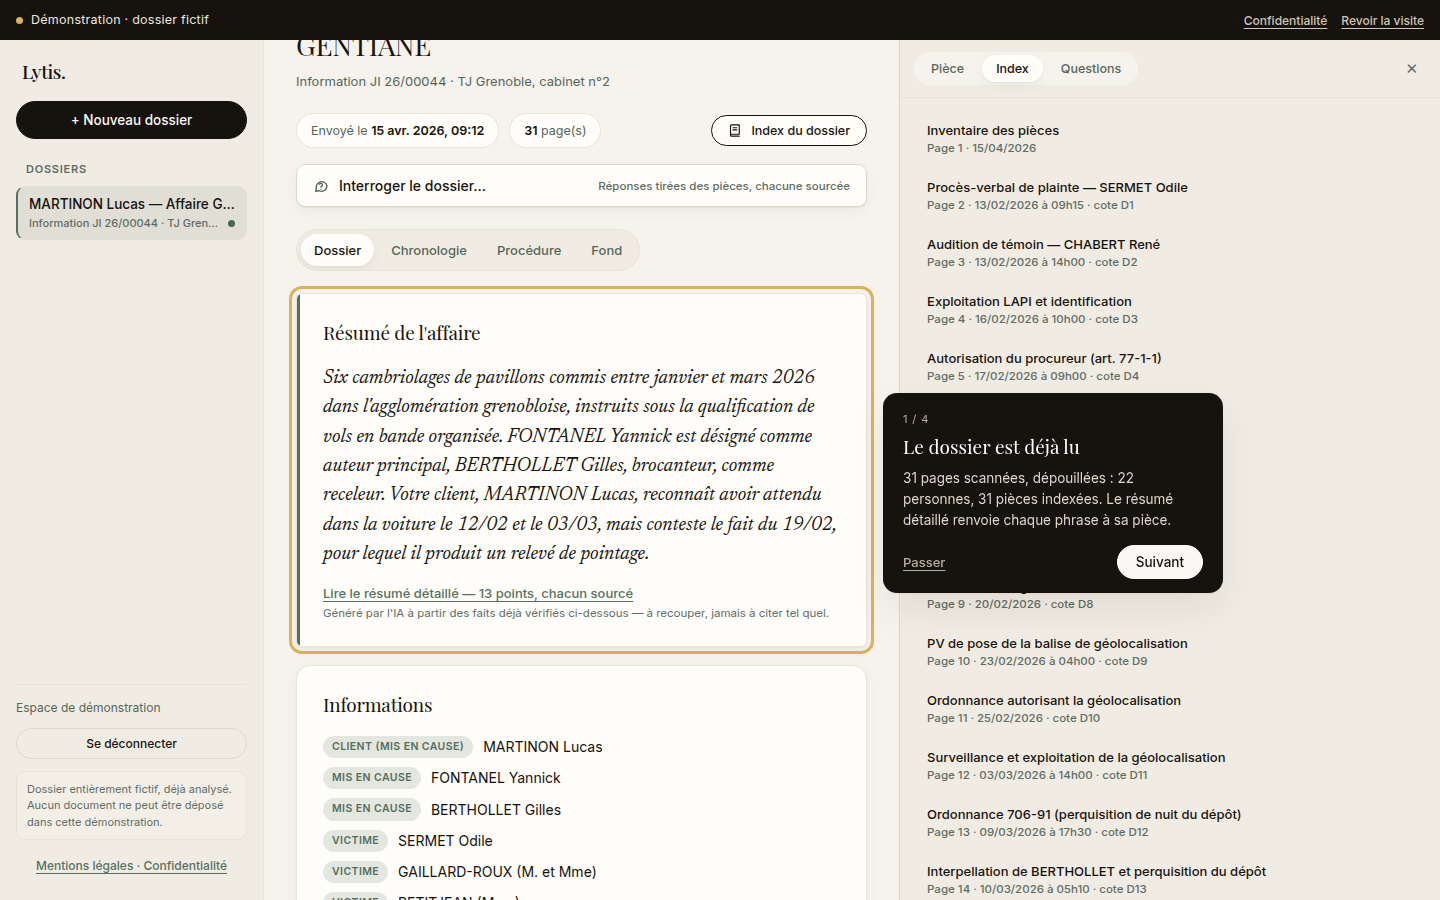
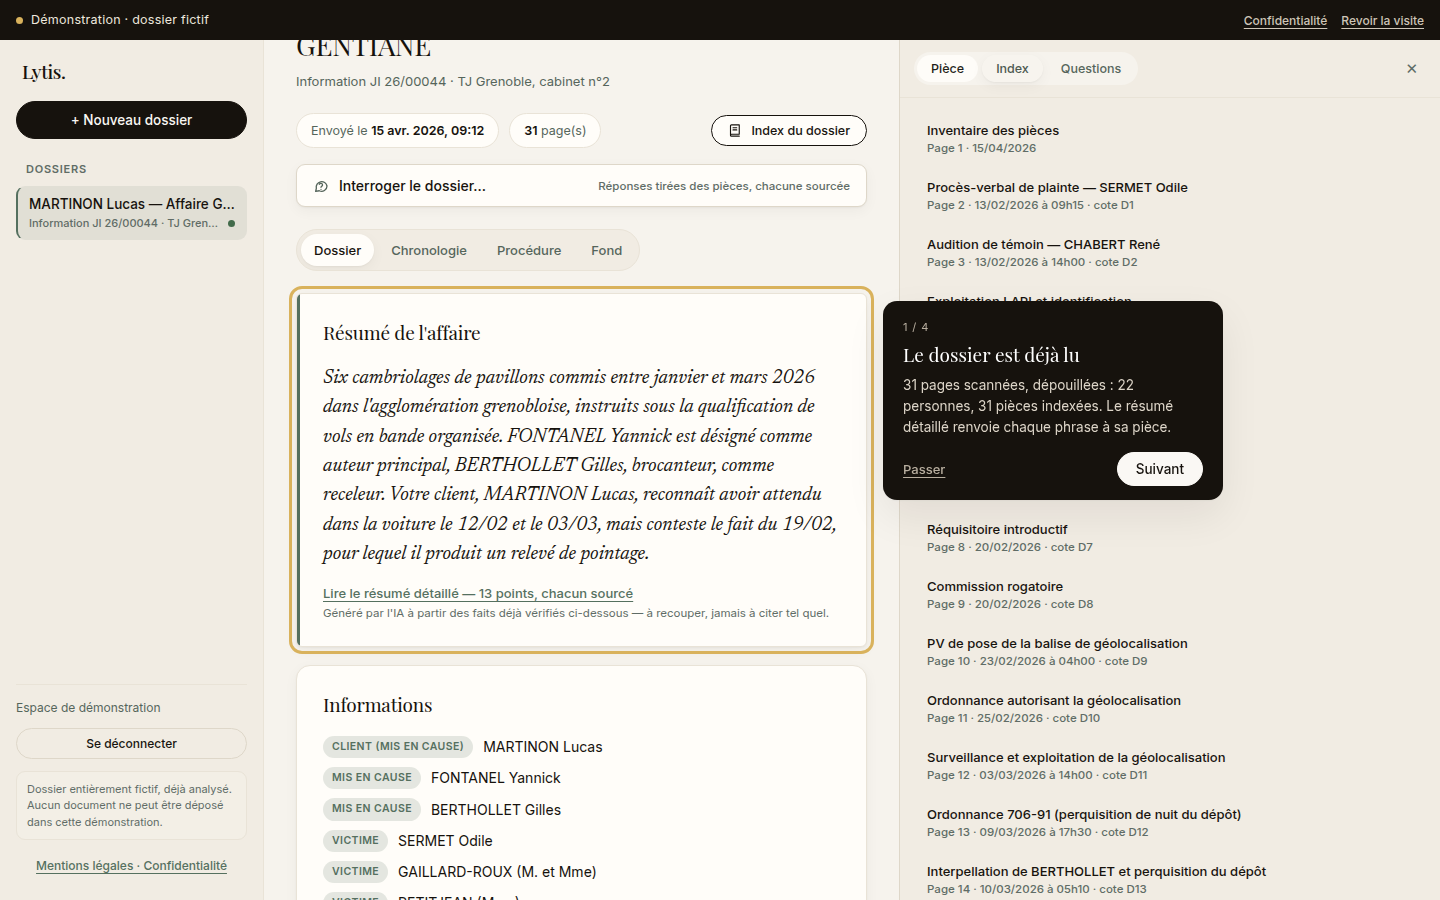
demo: l'onglet « Pièce » affiche la page courante au lieu d'un panneau vide
Claude-Session: https://claude.ai/code/session_01TiRuWH22G9KjR2WhbMiB4b

Changed region(s): [[0.5938, 0.3111, 0.875, 0.6844], [0.6875, 0.0622, 0.7188, 0.0933]]

diff --git a/demo/site/index.html b/demo/site/index.html
@@ -52,7 +52,7 @@
    <aside id="classeur" hidden>
      <header class="classeur-entete">
        <div class="classeur-modes">
-         <button type="button" class="mode-classeur actif" data-mode="piece" onclick="basculerModeClasseur('piece')">Pièce</button>
+         <button type="button" class="mode-classeur actif" data-mode="piece" onclick="montrerPiece()">Pièce</button>
          <button type="button" class="mode-classeur" data-mode="index" onclick="basculerModeClasseur('index')">Index</button>
          <button type="button" class="mode-classeur" data-mode="questions" onclick="ouvrirQuestions()">Questions</button>
        </div>

diff --git a/demo/site/app.js b/demo/site/app.js
@@ -327,6 +327,15 @@ function ouvrirClasseur(page, citation) {
 }
 window.ouvrirClasseur = ouvrirClasseur;
 
+// Onglet « Pièce » : si aucune page n'est encore affichée (classeur ouvert
+// sur l'index ou les questions), afficher la page courante au lieu d'un
+// panneau vide.
+function montrerPiece() {
+  basculerModeClasseur("piece");
+  if (!document.querySelector("#classeur-piece .page-cadre")) afficherPageClasseur(classeurPage);
+}
+window.montrerPiece = montrerPiece;
+
 function ouvrirIndexClasseur() {
   document.getElementById("classeur").hidden = false;
   basculerModeClasseur("index");
